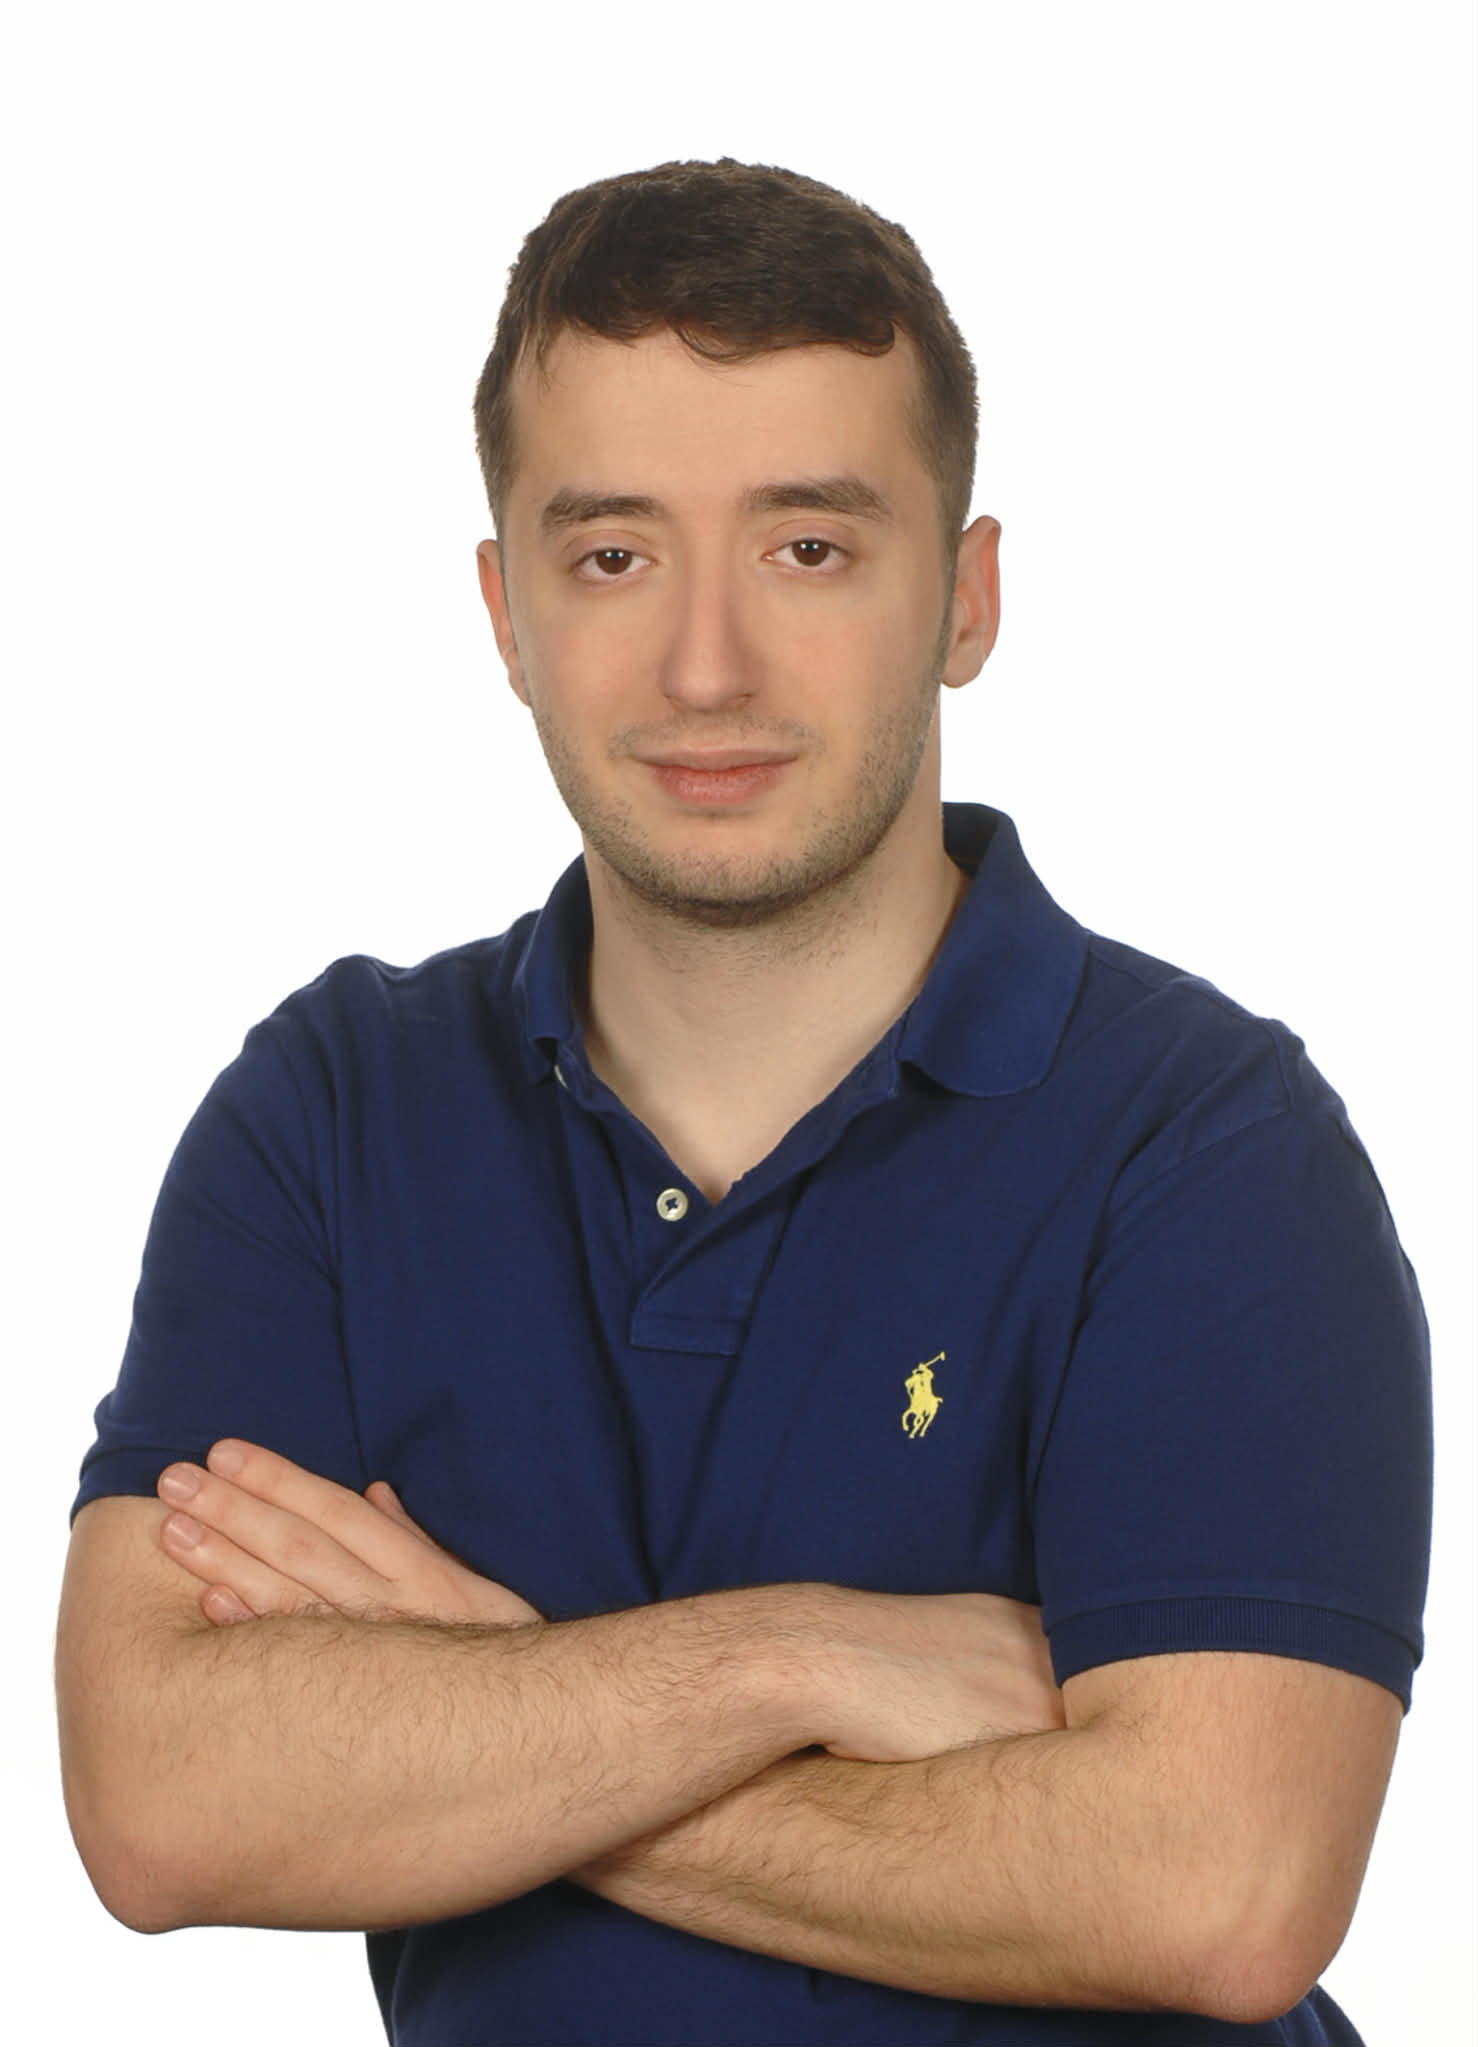
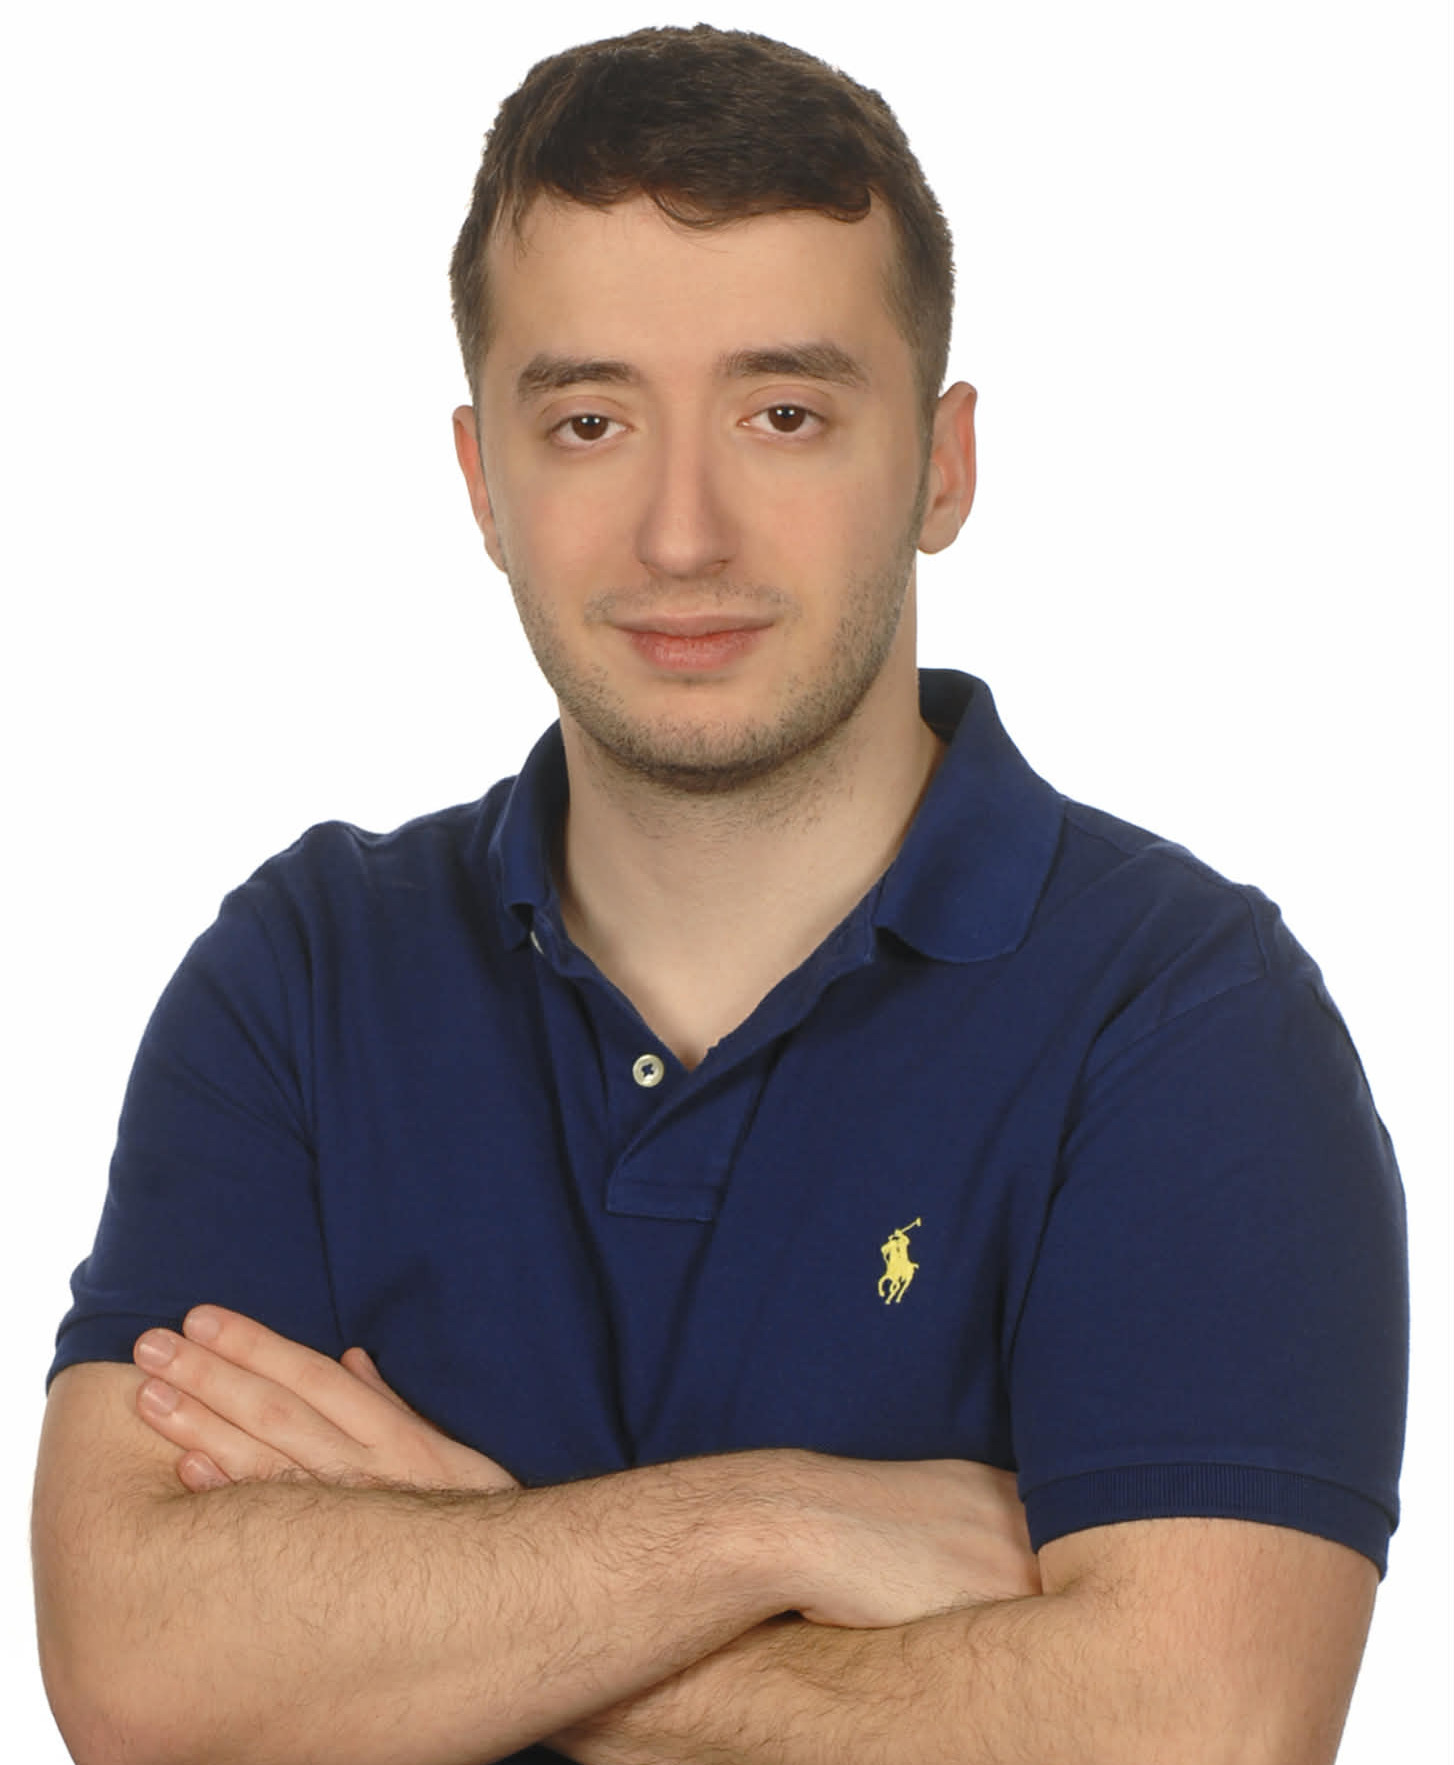
bug fixes

diff --git a/_research/moldability/performance.md b/_research/moldability/performance.md
@@ -305,27 +305,15 @@ classes: wide
 
 <h2>👥 Contact</h2>
 
-<div class="contact-grid">
+<div class="contact-grid" style="grid-template-columns: repeat(2, 1fr);">
   <div class="contact-card">
-    <div class="contact-icon">👨💻</div>
+    <div class="contact-icon"></div>
     <h3>Thanos Tsoukleidis-Karydakis</h3>
     <div class="contact-role">PhD Candidate</div>
     <div class="contact-email">
       <a href="mailto:[email redacted]">[email redacted]</a>
     </div>
   </div>
-  
-  <!-- Add more team members as needed -->
-  <!--
-  <div class="contact-card">
-    <div class="contact-icon">👩💻</div>
-    <h3>Name Surname</h3>
-    <div class="contact-role">Role</div>
-    <div class="contact-email">
-      <a href="mailto:[email redacted]">[email redacted]</a>
-    </div>
-  </div>
-  -->
 </div>
 
 <h2>📚 Bibliography</h2>